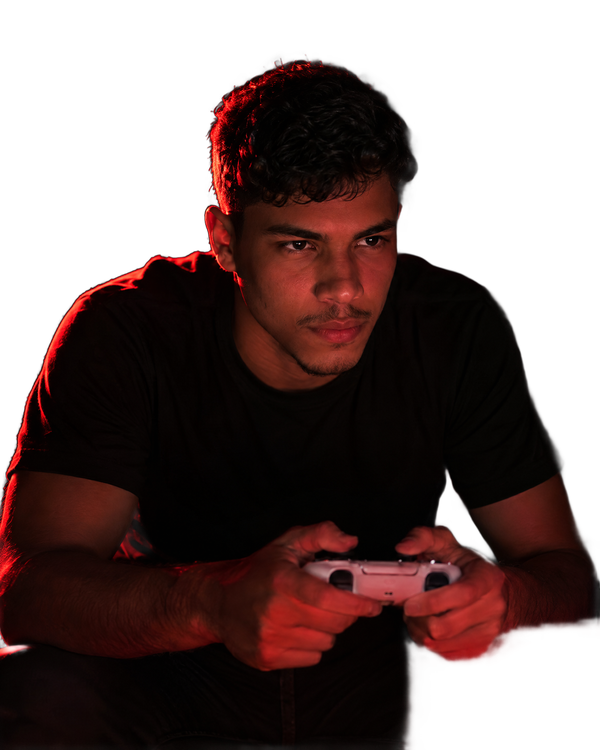
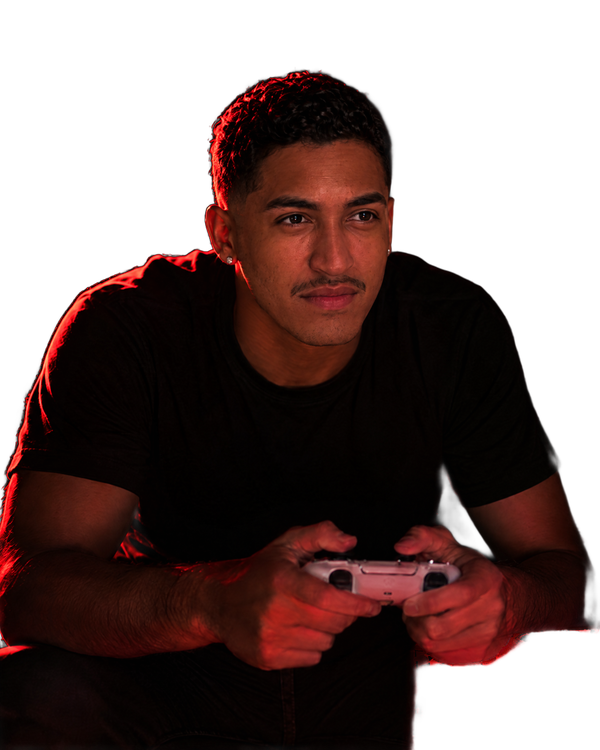
Rolagem mais leve: sem desfoque em tempo real e animações pausam fora da tela
- Tira backdrop-filter do cabeçalho fixo, dos cards do hero e da caixa
  "O que mudou" (fundo um pouco mais opaco no lugar)
- Controle do hero, faixa de comentários e card ativo do plano pausam
  fora da tela
- will-change nos elementos com paralaxe; ScrollTrigger ignora o resize
  da barra de endereço no celular
- Junto: novas imagens dos cards "pra você que", ajuste do recorte do
  primeiro card, título "O que tem dentro?" e brilho do card FUT removido

diff --git a/site/css/style.css b/site/css/style.css
@@ -163,10 +163,11 @@ mark.fill{ background:var(--todo); color:#000; padding:0 .3em; border-radius:4px
    ========================================================= */
 .header{
   position:fixed; inset:0 0 auto; z-index:100; height:var(--header-h);
-  transition:background-color .25s, border-color .25s, backdrop-filter .25s;
+  transition:background-color .25s, border-color .25s;
   border-bottom:1px solid transparent;
 }
-.header.is-scrolled{ background:rgba(6,2,3,.86); backdrop-filter:blur(12px); -webkit-backdrop-filter:blur(12px); border-bottom-color:var(--line); }
+/* sem backdrop-filter: num elemento fixo ele refaz o desfoque a cada quadro da rolagem */
+.header.is-scrolled{ background:rgba(6,2,3,.95); border-bottom-color:var(--line); }
 .header__in{ height:100%; width:min(100% - var(--gutter) * 2, 1320px); margin-inline:auto; display:flex; align-items:center; gap:12px; }
 .header .logo{ margin-right:auto; }
 .header__cta{ display:none; }
@@ -180,7 +181,7 @@ mark.fill{ background:var(--todo); color:#000; padding:0 .3em; border-radius:4px
   .nav.is-open{
     display:flex; flex-direction:column; position:fixed; top:var(--header-h); left:0; right:0;
     max-height:calc(100svh - var(--header-h)); overflow-y:auto;
-    background:rgba(6,2,3,.97); backdrop-filter:blur(12px); border-bottom:1px solid var(--line-r);
+    background:rgba(6,2,3,.98); border-bottom:1px solid var(--line-r);
     padding:8px var(--gutter) 20px;
   }
   .nav.is-open a{ padding:16px 4px; border-bottom:1px solid var(--line); text-decoration:none; font-weight:600; font-size:1.0625rem; }
@@ -234,7 +235,7 @@ mark.fill{ background:var(--todo); color:#000; padding:0 .3em; border-radius:4px
 .hero__media{ position:relative; display:flex; justify-content:center; align-items:flex-end; min-height:440px; margin-top:16px; }
 .hero__glow{ position:absolute; left:50%; bottom:6%; width:min(92%, 520px); aspect-ratio:1; transform:translateX(-50%); border-radius:50%; background:radial-gradient(closest-side, rgba(255,36,52,.55), rgba(140,10,24,.25) 55%, transparent 72%); filter:blur(10px); }
 .hero__img{
-  position:relative; width:auto; height:min(62svh, 520px); max-width:100%; object-fit:contain; object-position:bottom;
+  position:relative; width:auto; height:min(62svh, 520px); max-width:100%; object-fit:contain; object-position:bottom; will-change:transform;
   -webkit-mask-image:linear-gradient(180deg, #000 78%, transparent 100%); mask-image:linear-gradient(180deg, #000 78%, transparent 100%);
 }
 /* duas camadas no mesmo quadro: a pessoa embaixo, o controle por cima, alinhados pelo mesmo canvas */
@@ -247,8 +248,8 @@ mark.fill{ background:var(--todo); color:#000; padding:0 .3em; border-radius:4px
 .float{
   position:absolute; z-index:2; display:flex; align-items:flex-start; gap:10px;
   max-width:230px; padding:10px 14px 10px 10px; border-radius:var(--r-sm);
-  background:rgba(22,8,10,.78); border:1px solid rgba(255,255,255,.1);
-  backdrop-filter:blur(10px); -webkit-backdrop-filter:blur(10px);
+  background:rgba(22,8,10,.92); border:1px solid rgba(255,255,255,.1);
+  will-change:transform;
   box-shadow:0 12px 30px rgba(0,0,0,.45);
   font-size:.75rem; line-height:1.35;
 }
@@ -331,6 +332,8 @@ mark.fill{ background:var(--todo); color:#000; padding:0 .3em; border-radius:4px
   .pv__card .pv__img{ position:relative; }
   .pv__card .pv__img img{ position:absolute; inset:0; }
   .pv__card:first-child .pv__img{ flex:1; aspect-ratio:auto; min-height:300px; }
+  /* foto grande: menos zoom, do cabelo até o controle (o PNG é recortado, o fundo vermelho aparece dos lados) */
+  .pv__card:first-child .pv__img img{ inset:auto; top:-14%; left:50%; width:auto; height:170%; transform:translateX(-50%); object-fit:contain; }
   .pv__card:first-child p{ font-size:1.1875rem; font-weight:600; }
   .pv__card:not(:first-child){ display:grid; grid-template-columns:42% minmax(0,1fr); align-items:center; border-radius:var(--r-md); }
   .pv__card:not(:first-child) .pv__img{ aspect-ratio:auto; height:100%; min-height:230px; }
@@ -361,7 +364,7 @@ mark.fill{ background:var(--todo); color:#000; padding:0 .3em; border-radius:4px
 .sec--glass::after{ content:""; position:absolute; inset:0; background:linear-gradient(180deg, var(--bg) 0%, transparent 18%, transparent 82%, var(--bg) 100%); }
 .sec--glass > .wrap{ position:relative; z-index:1; }
 /* as mudanças lidas como patch notes: uma linha por mudança, sem caixas */
-.mudancas{ padding:0 20px; border-radius:var(--r-md); border-top:2px solid var(--red); background:rgba(8,3,4,.82); -webkit-backdrop-filter:blur(8px); backdrop-filter:blur(8px); }
+.mudancas{ padding:0 20px; border-radius:var(--r-md); border-top:2px solid var(--red); background:rgba(8,3,4,.92); }
 .mudancas > li{ padding:22px 0 24px; }
 .mudancas > li + li{ border-top:1px solid var(--line); }
 .mudancas h3{ font-family:var(--f-title); font-weight:600; font-size:1.25rem; line-height:1.2; margin-bottom:12px; }
@@ -386,7 +389,7 @@ mark.fill{ background:var(--todo); color:#000; padding:0 .3em; border-radius:4px
 .about__photo{ position:relative; width:86%; }
 .about__glow{ position:absolute; inset:8% -6% 0; border-radius:50%; background:radial-gradient(closest-side, rgba(255,36,52,.6), rgba(120,8,20,.3) 55%, transparent 75%); filter:blur(16px); }
 .about__photo img{ position:relative; width:100%; -webkit-mask-image:linear-gradient(#000 72%, transparent 98%); mask-image:linear-gradient(#000 72%, transparent 98%); }
-.post{ position:absolute; right:0; bottom:0; width:48%; transform:rotate(-3deg); z-index:2; }
+.post{ position:absolute; right:0; bottom:0; width:48%; transform:rotate(-3deg); z-index:2; will-change:transform; }
 .post img{ width:100%; aspect-ratio:4/5; object-fit:cover; border-radius:var(--r-sm); box-shadow:0 24px 50px -10px rgba(0,0,0,.8); }
 .post figcaption{ display:flex; flex-wrap:wrap; align-items:center; gap:6px 8px; margin-top:10px; font-size:.75rem; color:var(--txt-2); }
 .post__selo{ background:var(--trophy); color:var(--trophy-ink); font-weight:800; font-size:.75rem; padding:4px 10px; border-radius:999px; }
@@ -541,7 +544,7 @@ mark.fill{ background:var(--todo); color:#000; padding:0 .3em; border-radius:4px
 .fut{ display:grid; gap:16px; max-width:400px; margin-inline:auto; }
 .fut > li{ perspective:900px; }
 .fut-card{
-  --rx:0deg; --ry:0deg; --gx:50%; --gy:30%;
+  --rx:0deg; --ry:0deg;
   position:relative; height:100%; display:flex; flex-direction:column;
   overflow:hidden; isolation:isolate; border-radius:var(--r-lg);
   background:var(--card); border:1px solid var(--line-r);
@@ -558,8 +561,6 @@ mark.fill{ background:var(--todo); color:#000; padding:0 .3em; border-radius:4px
 .fut-card__ph svg{ position:absolute; left:50%; bottom:0; width:52%; transform:translateX(-50%); color:#050102; opacity:.9; }
 /* informações embaixo da foto */
 .fut-card__body{ flex:1; display:flex; flex-direction:column; align-items:flex-start; padding:16px 20px 20px; }
-.fut-card::after{ content:""; position:absolute; inset:0; pointer-events:none; opacity:0; transition:opacity .25s; background:radial-gradient(circle at var(--gx) var(--gy), rgba(255,255,255,.18), transparent 45%); }
-.fut-card:hover::after{ opacity:1; }
 .fut-card__nick{ font-family:var(--f-title); font-weight:800; font-size:1.25rem; line-height:1.15; word-break:break-word; }
 .fut-card__info{ font-size:.8125rem; color:var(--txt-2); margin-top:8px; display:grid; gap:3px; }
 .fut-card__info li{ position:relative; padding-left:14px; }
@@ -608,6 +609,7 @@ mark.fill{ background:var(--todo); color:#000; padding:0 .3em; border-radius:4px
 .marquee__toggle{ margin:8px; }
 .marquee__track{ display:flex; overflow:hidden; flex:1; -webkit-mask-image:linear-gradient(90deg, transparent, #000 6%, #000 94%, transparent); mask-image:linear-gradient(90deg, transparent, #000 6%, #000 94%, transparent); }
 .marquee__list{ display:flex; flex:none; gap:40px; padding:18px 20px; animation:marquee 48s linear infinite; }
+.marquee.is-off .marquee__list, .marquee.is-paused .marquee__list{ animation-play-state:paused; }
 .marquee__list li{ white-space:nowrap; font-size:.9375rem; color:var(--txt-2); }
 .marquee__list b{ color:var(--red); font-weight:700; margin-right:6px; }
 /* depoimentos no claro: prints continuam no "celular" escuro; aspas, nomes e setas em vermelho */

diff --git a/site/js/main.js b/site/js/main.js
@@ -103,8 +103,6 @@ $('#ano').textContent = new Date().getFullYear();
       card.classList.add('is-tilting');
       card.style.setProperty('--ry', `${(x - .5) * 12}deg`);
       card.style.setProperty('--rx', `${(.5 - y) * 12}deg`);
-      card.style.setProperty('--gx', `${x * 100}%`);
-      card.style.setProperty('--gy', `${y * 100}%`);
     });
     card.addEventListener('pointerleave', () => {
       card.classList.remove('is-tilting');
@@ -350,6 +348,8 @@ if (matchMedia('(hover: hover) and (pointer: fine)').matches) {
 {
   const m = $('.marquee');
   const t = $('.marquee__toggle');
+  // fora da tela a faixa para de andar: menos trabalho pro navegador durante a rolagem
+  new IntersectionObserver(([e]) => m.classList.toggle('is-off', !e.isIntersecting)).observe(m);
   t.addEventListener('click', () => {
     const on = !m.classList.contains('is-paused');
     m.classList.toggle('is-paused', on);
@@ -405,6 +405,8 @@ addEventListener('DOMContentLoaded', () => {
   if (!window.gsap || !window.ScrollTrigger) return;
   const hasSplit = !!window.SplitText;
   gsap.registerPlugin(ScrollTrigger, ...(hasSplit ? [SplitText] : []));
+  // no celular a barra de endereço some/aparece ao rolar: sem isso cada vez recalcula tudo e dá tranco
+  ScrollTrigger.config({ ignoreMobileResize: true });
   const mm = gsap.matchMedia();
 
   mm.add({ motion: '(prefers-reduced-motion: no-preference)', desk: '(min-width: 960px)', side: '(min-width: 800px)' }, ctx => {
@@ -442,13 +444,19 @@ addEventListener('DOMContentLoaded', () => {
         // Sobe no máx. 3% da altura da figura: o controle nunca chega na altura do rosto.
         const c = '.hero__controle', ease = 'sine.inOut', loop = { ease, yoyo: true, repeat: -1 };
         const sobe = $('.hero__figure').offsetHeight * .03;
-        gsap.to(c, { y: -sobe, duration: 1.8, ...loop });
-        gsap.to(c, { scale: .75, duration: 2.2, ...loop });
-        gsap.timeline().to(c, { rotation: -6, duration: 1.2, ease }).to(c, { rotation: 6, duration: 2.4, ...loop });
-        gsap.timeline().to(c, { x: -10, duration: 1.5, ease }).to(c, { x: 10, duration: 3, ...loop });
-        // volume 3D: gira em perspectiva nos dois eixos
-        gsap.timeline().to(c, { rotationY: -18, duration: 1.6, ease }).to(c, { rotationY: 18, duration: 3.2, ...loop });
-        gsap.timeline().to(c, { rotationX: 10, duration: 1.3, ease }).to(c, { rotationX: -10, duration: 2.6, ...loop });
+        const voo = [
+          gsap.to(c, { y: -sobe, duration: 1.8, ...loop }),
+          gsap.to(c, { scale: .75, duration: 2.2, ...loop }),
+          gsap.timeline().to(c, { rotation: -6, duration: 1.2, ease }).to(c, { rotation: 6, duration: 2.4, ...loop }),
+          gsap.timeline().to(c, { x: -10, duration: 1.5, ease }).to(c, { x: 10, duration: 3, ...loop }),
+          // volume 3D: gira em perspectiva nos dois eixos
+          gsap.timeline().to(c, { rotationY: -18, duration: 1.6, ease }).to(c, { rotationY: 18, duration: 3.2, ...loop }),
+          gsap.timeline().to(c, { rotationX: 10, duration: 1.3, ease }).to(c, { rotationX: -10, duration: 2.6, ...loop }),
+        ];
+        // com o hero fora da tela o controle para de flutuar (e retoma de onde parou ao voltar)
+        const io = new IntersectionObserver(([e]) => voo.forEach(t => e.isIntersecting ? t.resume() : t.pause()));
+        io.observe($('.hero'));
+        return () => io.disconnect();
       }));
 
     /* controle: no desktop, inclina em 3D na direção do mouse (no wrap, pra não brigar com a flutuação) */
@@ -504,7 +512,10 @@ addEventListener('DOMContentLoaded', () => {
     });
     // semana ativa = a última que a linha alcançou: o card dela cresce e flutua; ao trocar, o efeito passa adiante
     const semanas = $$('.semana');
-    let ativa = null, boia = null;
+    let ativa = null, boia = null, planoNaTela = true;
+    // a flutuação do card ativo só roda com o plano na tela
+    const planoIo = new IntersectionObserver(([e]) => { planoNaTela = e.isIntersecting; boia && (planoNaTela ? boia.resume() : boia.pause()); });
+    planoIo.observe(plano);
     const ativar = () => {
       const nova = semanas.filter(s => s.classList.contains('is-on')).pop() || null;
       if (nova === ativa) return;
@@ -519,6 +530,7 @@ addEventListener('DOMContentLoaded', () => {
       const card = $('.semana__card', ativa);
       gsap.to(card, { scale: 1.04, duration: .5, ease: 'power2.out', overwrite: 'auto' });
       boia = gsap.to(card, { y: -8, duration: 1.6, ease: 'sine.inOut', yoyo: true, repeat: -1, delay: .2 });
+      if (!planoNaTela) boia.pause();
     };
     semanas.forEach(s => {
       ScrollTrigger.create({
@@ -533,6 +545,7 @@ addEventListener('DOMContentLoaded', () => {
         .from($('.semana__dot', s), { opacity: 0, duration: .4 }, 0);
     });
     ctx.add(() => () => {
+      planoIo.disconnect();
       boia && boia.kill();
       plano.classList.remove('is-anim');
       semanas.forEach(s => s.classList.remove('is-active'));

diff --git a/site/index.html b/site/index.html
@@ -14,7 +14,7 @@
 <link rel="stylesheet" href="https://fonts.googleapis.com/css2?family=Manrope:wght@400;600;700&family=Outfit:wght@300;600;800&display=swap" media="print" onload="this.media='all'">
 <noscript><link rel="stylesheet" href="https://fonts.googleapis.com/css2?family=Manrope:wght@400;600;700&family=Outfit:wght@300;600;800&display=swap"></noscript>
 <link rel="preload" as="image" href="assets/illan-hero-pessoa-hd.webp?v=3" fetchpriority="high">
-<link rel="stylesheet" href="css/style.css?v=31">
+<link rel="stylesheet" href="css/style.css?v=33">
 </head>
 <body>
 
@@ -126,15 +126,15 @@
     <h2 class="h2 h2--c" id="pv-title" data-letters="top 60%">Esse curso é <span class="hl">pra você que:</span></h2>
     <ul class="pv">
       <li class="pv__card">
-        <div class="pv__img"><img src="assets/card-tilt.png" width="600" height="750" loading="lazy" decoding="async" alt="Jogador irritado, com a mão no cabelo e o controle apertado na outra mão, depois de tomar um gol."></div>
+        <div class="pv__img"><img src="assets/card-tilt.png?v=2" width="600" height="750" loading="lazy" decoding="async" alt="Jogador irritado, com a mão no cabelo e o controle apertado na outra mão, depois de tomar um gol."></div>
         <p>Tilta depois de um gol, <span class="hl">entrega o segundo</span> e fecha a Weekend League com raiva.</p>
       </li>
       <li class="pv__card">
-        <div class="pv__img"><img src="assets/card-ultimos-minutos.png" width="600" height="750" loading="lazy" decoding="async" alt="Jogador em choque olhando para a tela, boca entreaberta, controle abaixado."></div>
+        <div class="pv__img"><img src="assets/card-ultimos-minutos.png?v=2" width="600" height="750" loading="lazy" decoding="async" alt="Jogador em choque olhando para a tela, boca entreaberta, controle abaixado."></div>
         <p>Toma gol nos últimos 10 minutos de jogo que <span class="hl">estava ganhando</span>, e não sabe por quê.</p>
       </li>
       <li class="pv__card">
-        <div class="pv__img"><img src="assets/card-manual.png" width="600" height="750" loading="lazy" decoding="async" alt="Jogador calmo e concentrado, inclinado para a frente com as duas mãos no controle."></div>
+        <div class="pv__img"><img src="assets/card-manual.png?v=2" width="600" height="750" loading="lazy" decoding="async" alt="Jogador calmo e concentrado, inclinado para a frente com as duas mãos no controle."></div>
         <p>Quer subir no Rivals <span class="hl">sem precisar de time caro</span>, defendendo no manual.</p>
       </li>
     </ul>
@@ -246,7 +246,7 @@
 <section class="sec" id="aulas" aria-labelledby="aulas-title">
   <div class="wrap produto">
     <div class="produto__side">
-      <h2 class="h2" id="aulas-title" data-letters>O que tem <span class="hl">dentro</span></h2>
+      <h2 class="h2" id="aulas-title" data-letters>O que tem <span class="hl">dentro?</span></h2>
       <p class="lead">Cada aula resolve um problema concreto e termina com um exercício. A regra é uma só: um foco por vez.</p>
       <!-- capa inclina seguindo o mouse (TiltedCard, React Bits, portado pra JS puro em js/main.js) -->
       <div class="tilt" aria-hidden="true">
@@ -549,6 +549,6 @@
 <script src="https://cdnjs.cloudflare.com/ajax/libs/gsap/3.13.0/gsap.min.js" defer></script>
 <script src="https://cdnjs.cloudflare.com/ajax/libs/gsap/3.13.0/ScrollTrigger.min.js" defer></script>
 <script src="https://cdnjs.cloudflare.com/ajax/libs/gsap/3.13.0/SplitText.min.js" defer></script>
-<script src="js/main.js?v=24" defer></script>
+<script src="js/main.js?v=26" defer></script>
 </body>
 </html>
